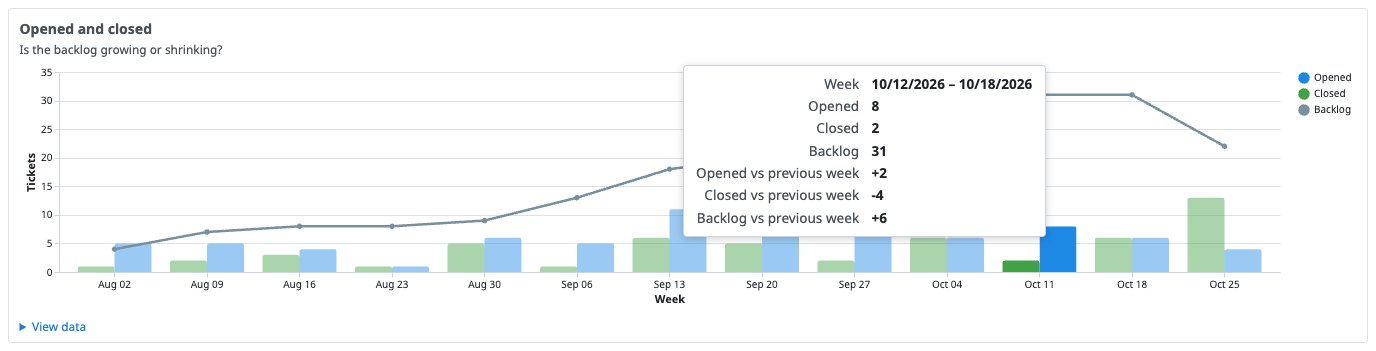
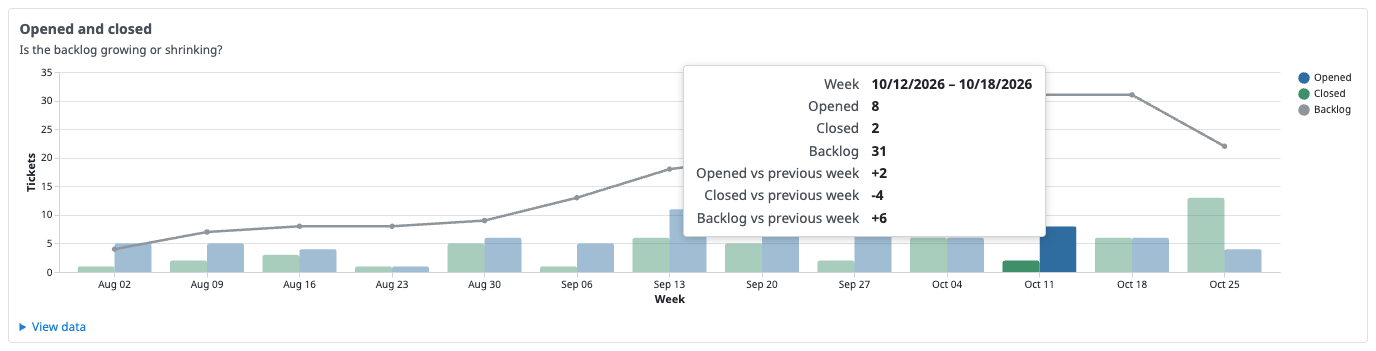
docs: describe the editorial preset, release 1.3.0 and retake the screenshots
refs #1657

diff --git a/README.md b/README.md
@@ -140,14 +140,15 @@ preset under Administration, Plugins, Configure.
 
 | Preset | What it is |
 |---|---|
-| Follow the theme (default) | The theme's own chart colours when the page defines `--theme-chart-1`, Material when it does not |
+| Follow the theme (default) | The theme's own chart colours when the page defines `--theme-chart-1`, Editorial when it does not |
+| Editorial | Ten muted hues in the manner of newsroom graphics, with a grey for context: steel blue, burnt orange, muted green, brick red and so on. A darker set for a light page and a lighter set for a dark page |
 | Material | Ten saturated Material Design hues, a darker set for a light page and a lighter set for a dark page |
 | Colour-blind safe | The Okabe-Ito set, with grey in place of black and darker tones on a light page |
 | Data visualisation | Ten saturated categorical colours in the style of the wpdatatables palettes |
 | Custom | Up to ten hex colours of your own, and optional colours for open, closed and neutral |
 
 A chart that groups by a category (tickets by status, tickets by category and its donut, closed per person) takes the
-colours in order and starts again after the last one. The bars of tickets by status and by category need no legend, as
+colours in order and starts again after the last one. A bucket named None or Other, or with an empty name, is drawn in the neutral grey instead, so it reads as context and uses no hue. The bars of tickets by status and by category need no legend, as
 the axis names them. Charts with a single series (time to close, the median line) are drawn in the first colour. Open and closed use the same two colours in every chart: the open and closed donut, opened and closed per period, and
 done against remaining per version. The neutral colour draws remaining tickets and the backlog line. Every colour of the
 presets keeps a contrast of at least 3:1 against a white page in the light set and against a #1E1E1E page in the dark set.
@@ -191,8 +192,11 @@ Pick colours that keep 3:1 against the page background, or the bars will be hard
 
 ### Palette values
 
+The roles are open, closed and neutral. Editorial uses `#2F6C9F`, `#3F8F6B` and `#8E959B` in the light set and `#6FA3D0`, `#7CC09E` and `#8A9199` in the dark set. The Editorial palette is original to this plugin and is not taken from any publisher.
+
 | Preset | Light set | Dark set |
 |---|---|---|
+| Editorial | `#2F6C9F` `#D4662A` `#3F8F6B` `#B5493F` `#7A5C9A` `#B88C27` `#4F9AA0` `#8C6D5A` `#6B7F94` `#8E959B` | `#6FA3D0` `#EE9A63` `#7CC09E` `#E08A82` `#A98CC9` `#E3BE63` `#86C4C9` `#BBA08F` `#9FB0C2` `#B4BAC0` |
 | Material | `#1E88E5` `#EA6A00` `#00897B` `#D81B60` `#689F38` `#8E24AA` `#0097A7` `#3949AB` `#6D4C41` `#546E7A` | `#64B5F6` `#FFA726` `#4DB6AC` `#F06292` `#9CCC65` `#BA68C8` `#4DD0E1` `#7986CB` `#A1887F` `#90A4AE` |
 | Colour-blind safe | `#0072B2` `#D55E00` `#009E73` `#CB75A5` `#C28600` `#1D99E0` `#9C920C` `#919191` | `#0072B2` `#D55E00` `#009E73` `#CC79A7` `#E69F00` `#56B4E9` `#F0E442` `#999999` |
 | Data visualisation | `#1A53FF` `#CC8200` `#00A58B` `#E60049` `#9B19F5` `#0098DC` `#899623` `#DC0AB4` `#7C1158` `#729F39` | `#245BFF` `#FFA300` `#00BFA0` `#E60049` `#9D1EF5` `#0BB4FF` `#BDCF32` `#DC0AB4` `#C81B8E` `#87BC45` |
@@ -204,7 +208,7 @@ tool can write only the keys it wants to change, and an upgrade with no stored k
 
 | Key | Allowed values | Default |
 |---|---|---|
-| `palette_preset` | `"follow_theme"`, `"material"`, `"colour_blind_safe"`, `"data_visualisation"`, `"custom"` | `"follow_theme"` |
+| `palette_preset` | `"follow_theme"`, `"editorial"`, `"material"`, `"colour_blind_safe"`, `"data_visualisation"`, `"custom"` | `"follow_theme"` |
 | `custom_colours` | 1 to 10 hex colours (`#rgb` or `#rrggbb`) separated by commas; used only with `"custom"` | `""` |
 | `custom_open_colour` | one hex colour, or `""` for the first custom colour | `""` |
 | `custom_closed_colour` | one hex colour, or `""` for the second custom colour (the first when there is only one) | `""` |
@@ -215,7 +219,7 @@ For example, from `rails runner`:
     Setting.plugin_redmine_rubylode_stats = { "palette_preset" => "custom", "custom_colours" => "#1e88e5, #ea6a00, #00897b" }
 
 The form checks the values before it saves them and names every colour it does not accept. Writing the hash directly skips
-that check: an unusable value reads as the default, and unusable custom colours leave the Material palette.
+that check: an unusable value reads as the default, and unusable custom colours leave the Editorial palette.
 
 ## The page across projects
 

diff --git a/docs/redmine-org-listing.md b/docs/redmine-org-listing.md
@@ -13,15 +13,15 @@ The text to paste at www.redmine.org, Plugins, New plugin. Redmine's "Check for 
 
 ## Notes for the first version
 
-Version 1.2.0. Charts over a project's tickets: by category, open and closed, over time, who closed what. Needs Redmine 7.0 or newer. Install and settings are described in the README at https://github.com/rubylode/redmine-rubylode-stats.
+Version 1.3.0. Charts over a project's tickets: by category, open and closed, over time, who closed what. Needs Redmine 7.0 or newer. Install and settings are described in the README at https://github.com/rubylode/redmine-rubylode-stats.
 
 ## File to upload
 
-`redmine_rubylode_stats-1.2.0.zip`, the file the GitHub release workflow publishes when a `v1.2.0` tag is pushed. Upload the same file that is attached to the GitHub release.
+`redmine_rubylode_stats-1.3.0.zip`, the file the GitHub release workflow publishes when a `v1.3.0` tag is pushed. Upload the same file that is attached to the GitHub release.
 
 ## Checking the result
 
-The name, author and version in the listing must match what the plugin registers (`Rubylode Stats`, `Rubylode`, `1.2.0`). When they do, Administration, Plugins, Check for updates shows:
+The name, author and version in the listing must match what the plugin registers (`Rubylode Stats`, `Rubylode`, `1.3.0`). When they do, Administration, Plugins, Check for updates shows:
 
 - a green tick: the installed version is the latest one listed on redmine.org;
 - an amber warning: redmine.org lists a newer version than the installed one;

diff --git a/CHANGELOG.md b/CHANGELOG.md
@@ -2,7 +2,18 @@
 
 All notable changes to this plugin. The format follows [Keep a Changelog](https://keepachangelog.com/en/1.1.0/).
 
-## [Unreleased]
+## [1.3.0] - 2026-11-03
+
+Calmer chart colours.
+
+### Added
+
+- An Editorial preset: ten muted hues with a grey for context, in a light and a dark set, each keeping 3:1 contrast against the page.
+
+### Changed
+
+- Editorial is the palette used when the preset is Follow the theme and the theme defines no chart colours. Material stays selectable.
+- A None, Other or unnamed bucket in the category and closed per person charts is drawn in the neutral grey instead of a palette colour.
 
 ## [1.2.0] - 2026-11-02
 
@@ -63,7 +74,8 @@ First release. Needs Redmine 7.0 or newer.
 - A page across projects, limited to the projects where the user holds the permission and the module is on.
 - A demo data script for the throwaway Redmine, and a screenshot of each tab.
 
-[Unreleased]: https://github.com/rubylode/redmine-rubylode-stats/compare/v1.2.0...main
+[Unreleased]: https://github.com/rubylode/redmine-rubylode-stats/compare/v1.3.0...main
+[1.3.0]: https://github.com/rubylode/redmine-rubylode-stats/compare/v1.2.0...v1.3.0
 [1.2.0]: https://github.com/rubylode/redmine-rubylode-stats/compare/v1.1.1...v1.2.0
 [1.1.0]: https://github.com/rubylode/redmine-rubylode-stats/compare/v1.0.0...v1.1.0
 [1.0.0]: https://github.com/rubylode/redmine-rubylode-stats/releases/tag/v1.0.0
